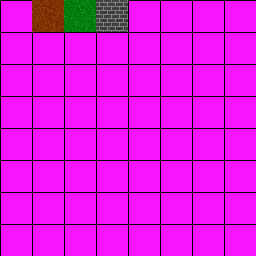
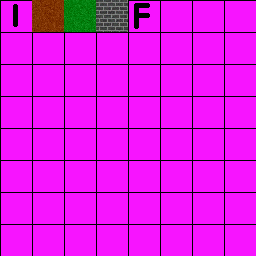
Testes - células iniciais e finais

Changed region(s): [[0.5, 0.0, 0.5938, 0.125], [0.0312, 0.0, 0.0938, 0.125]]

diff --git a/INF1337-T1/src/map/Map.java b/INF1337-T1/src/map/Map.java
@@ -1,16 +1,36 @@
 package map;
 
+import pathfinding.Node;
 import mapcell.MapCell;
 
 public class Map {
 	private char[][] mapData;
 	private int nRows, nColumns;
+	
+	public int startX, startY, endX, endY;
 
 	public Map(char[][] data) {
 		mapData = data;
 
 		nRows = mapData.length;
 		nColumns = mapData[0].length;
+		
+		for(int i = 0; i < nRows; i++)
+		{
+			for(int j = 0; j < nColumns; j++)
+			{
+				if(mapData[i][j] == MapCell.Cells.START.asChar())
+				{
+					startX = j;
+					startY = i;
+				}
+				else if(mapData[i][j] == MapCell.Cells.END.asChar())
+				{
+					endX = j;
+					endY = i;
+				}
+			}
+		}
 	}
 
 	public int getNRows() {
@@ -21,28 +41,27 @@ public class Map {
 		return nColumns;
 	}
 
-	public char[] getNeighbors(int row, int column) {
-		char empty = MapCell.Cells.EMPTY.asChar();
-		char[] neighbors = { empty, empty, empty, empty };
+	public Node[] getNeighbors(int row, int column) {
+		Node[] neighbors = new Node[4];
 
 		// North
 		if (row - 1 >= nRows) {
-			neighbors[0] = mapData[row - 2][column - 1];
+			neighbors[0] = new Node(column, row - 1);
 		}
 
 		// South
 		if (row + 1 <= nRows) {
-			neighbors[1] = mapData[row][column - 1];
+			neighbors[1] = new Node(column, row + 1);
 		}
 
 		// West
 		if (column - 1 >= nColumns) {
-			neighbors[2] = mapData[row - 1][column - 2];
+			neighbors[2] = new Node(column - 1, row);
 		}
 
 		// East
 		if (column + 1 <= nColumns) {
-			neighbors[3] = mapData[row - 1][column];
+			neighbors[3] = new Node(column + 1, row);
 		}
 
 		return neighbors;
@@ -55,7 +74,7 @@ public class Map {
 
 	public MapCell.Cells getValue(int row, int column) {
 		if (mapData.length < row || mapData[0].length < column)
-			return MapCell.Cells.EMPTY;
+			return null;
 
 		char tileType = mapData[row - 1][column - 1];
 
@@ -63,12 +82,10 @@ public class Map {
 			return MapCell.Cells.NORMAL;
 		} else if (tileType == MapCell.Cells.WATER.asChar()) {
 			return MapCell.Cells.WATER;
-		} else if (tileType == MapCell.Cells.ENEMYTOWER.asChar()) {
-			return MapCell.Cells.ENEMYTOWER;
-		} else if (tileType == MapCell.Cells.ENEMYBASE.asChar()) {
-			return MapCell.Cells.ENEMYBASE;
-		} else if (tileType == MapCell.Cells.EMPTY.asChar()) {
-			return MapCell.Cells.EMPTY;
+		} else if (tileType == MapCell.Cells.START.asChar()) {
+			return MapCell.Cells.START;
+		} else if (tileType == MapCell.Cells.END.asChar()) {
+			return MapCell.Cells.END;
 		}
 
 		return null;

diff --git a/INF1337-T1/src/map/MapPanel.java b/INF1337-T1/src/map/MapPanel.java
@@ -12,6 +12,9 @@ import gfx.Assets;
 import mapcell.GrassCell;
 import mapcell.MapCell;
 import mapcell.WaterCell;
+import mapcell.StartCell;
+import mapcell.EndCell;
+import pathfinding.AStar;
 import program.Program;
 
 public class MapPanel extends JPanel {
@@ -38,6 +41,8 @@ public class MapPanel extends JPanel {
 
 	private MapCell GrassCell = new GrassCell(MapCell.Cells.NORMAL.asChar());
 	private MapCell WaterCell = new WaterCell(MapCell.Cells.WATER.asChar());
+	private MapCell StartCell = new StartCell(MapCell.Cells.START.asChar());
+	private MapCell EndCell = new EndCell(MapCell.Cells.END.asChar());
 
 	public boolean renderMap() {
 		int width = getWidth();
@@ -70,6 +75,10 @@ public class MapPanel extends JPanel {
 				cell.render(g, x, y, (int) rectWidth, (int) rectHeight);
 			}
 		}
+		
+		// TODO: Pesquisar caminho
+		//AStar astar = new AStar();
+		//astar.FindPath(loadedMap);
 
 		return true;
 	}
@@ -92,6 +101,10 @@ public class MapPanel extends JPanel {
 			return GrassCell;
 		if (value == MapCell.Cells.WATER)
 			return WaterCell;
+		if (value == MapCell.Cells.START)
+			return StartCell;
+		if (value == MapCell.Cells.END)
+			return EndCell;
 
 		return WaterCell;
 	}

diff --git a/INF1337-T1/src/gfx/Assets.java b/INF1337-T1/src/gfx/Assets.java
@@ -6,7 +6,7 @@ public class Assets {
 	public static final int TILE_WIDTH = 32;
 	public static final int TILE_HEIGHT = 32;
 
-	public static BufferedImage dirt, grass, stone;
+	public static BufferedImage dirt, grass, stone, start, end;
 
 	public static void init() {
 		SpriteSheet sheet = new SpriteSheet(ImageLoader.loadImage("/sheet.png"));
@@ -14,5 +14,7 @@ public class Assets {
 		dirt = sheet.crop(TILE_WIDTH, 0, TILE_WIDTH, TILE_HEIGHT);
 		grass = sheet.crop(TILE_WIDTH * 2, 0, TILE_WIDTH, TILE_HEIGHT);
 		stone = sheet.crop(TILE_WIDTH * 3, 0, TILE_WIDTH, TILE_HEIGHT);
+		start = sheet.crop(0, 0, TILE_WIDTH, TILE_HEIGHT);
+		end = sheet.crop(TILE_WIDTH * 4, 0, TILE_WIDTH, TILE_HEIGHT);
 	}
 }

diff --git a/INF1337-T1/src/mapcell/MapCell.java b/INF1337-T1/src/mapcell/MapCell.java
@@ -5,7 +5,7 @@ import java.awt.image.BufferedImage;
 
 public abstract class MapCell {
 	public enum Cells {
-		EMPTY('E', 0), NORMAL('N', 5), WATER('W', 1), ENEMYTOWER('T', 60), ENEMYBASE('E', 0);
+		NORMAL('.', 1), WATER('X', 0), START('I', 0), END('F', 0);
 
 		private final char asChar;
 		private final int cost;

diff --git a/INF1337-T1/src/mapcell/StartCell.java b/INF1337-T1/src/mapcell/StartCell.java
@@ -1,0 +1,9 @@
+package mapcell;
+
+import gfx.Assets;
+
+public class StartCell extends MapCell {
+	public StartCell(char id) {
+		super(Assets.start, id);
+	}
+}

diff --git a/INF1337-T1/src/mapcell/EndCell.java b/INF1337-T1/src/mapcell/EndCell.java
@@ -1,0 +1,9 @@
+package mapcell;
+
+import gfx.Assets;
+
+public class EndCell extends MapCell {
+	public EndCell(char id) {
+		super(Assets.end, id);
+	}
+}

diff --git a/INF1337-T1/src/pathfinding/Node.java b/INF1337-T1/src/pathfinding/Node.java
@@ -1,0 +1,13 @@
+package pathfinding;
+
+public class Node {
+	public int X;
+	public int Y;
+	
+	
+	public Node(int x, int y)
+	{
+		X = x;
+		Y = y;
+	}
+}
